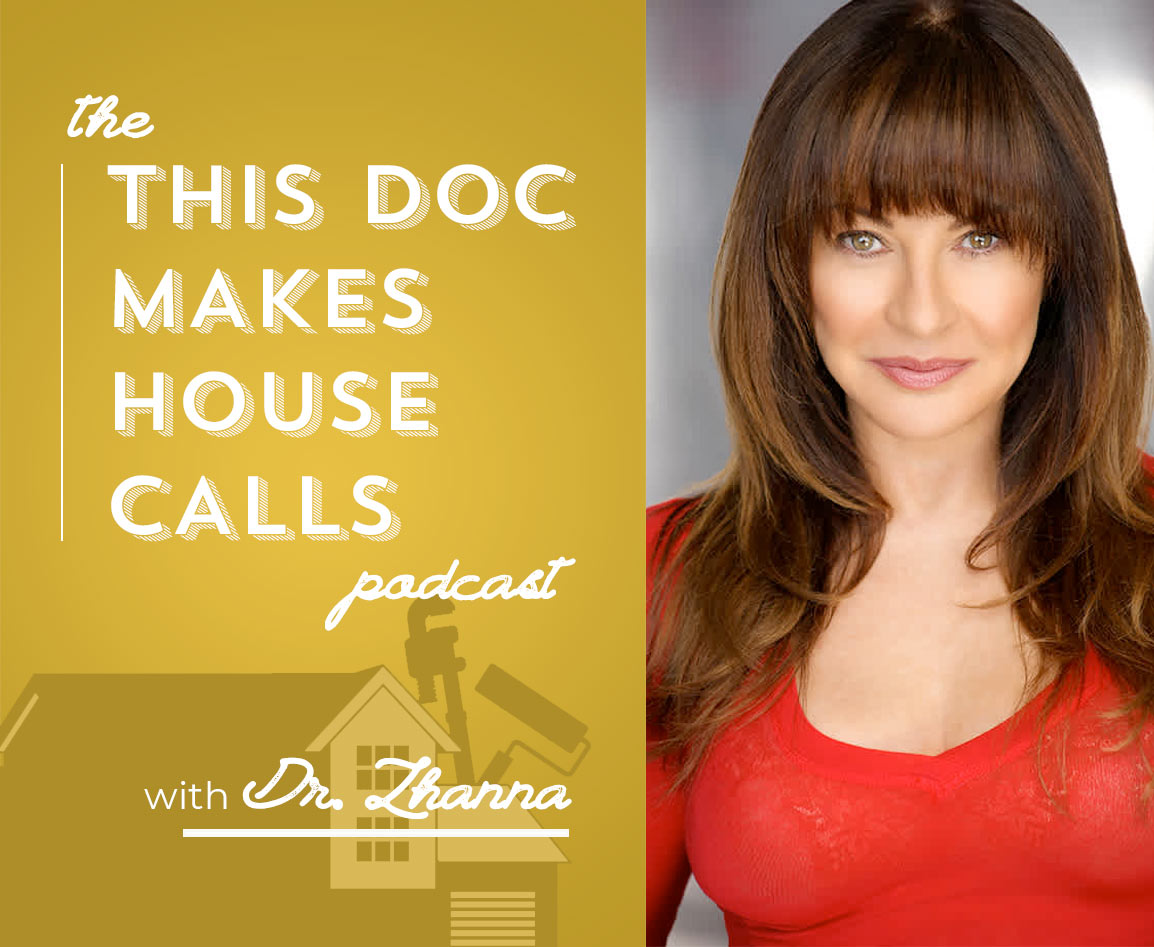
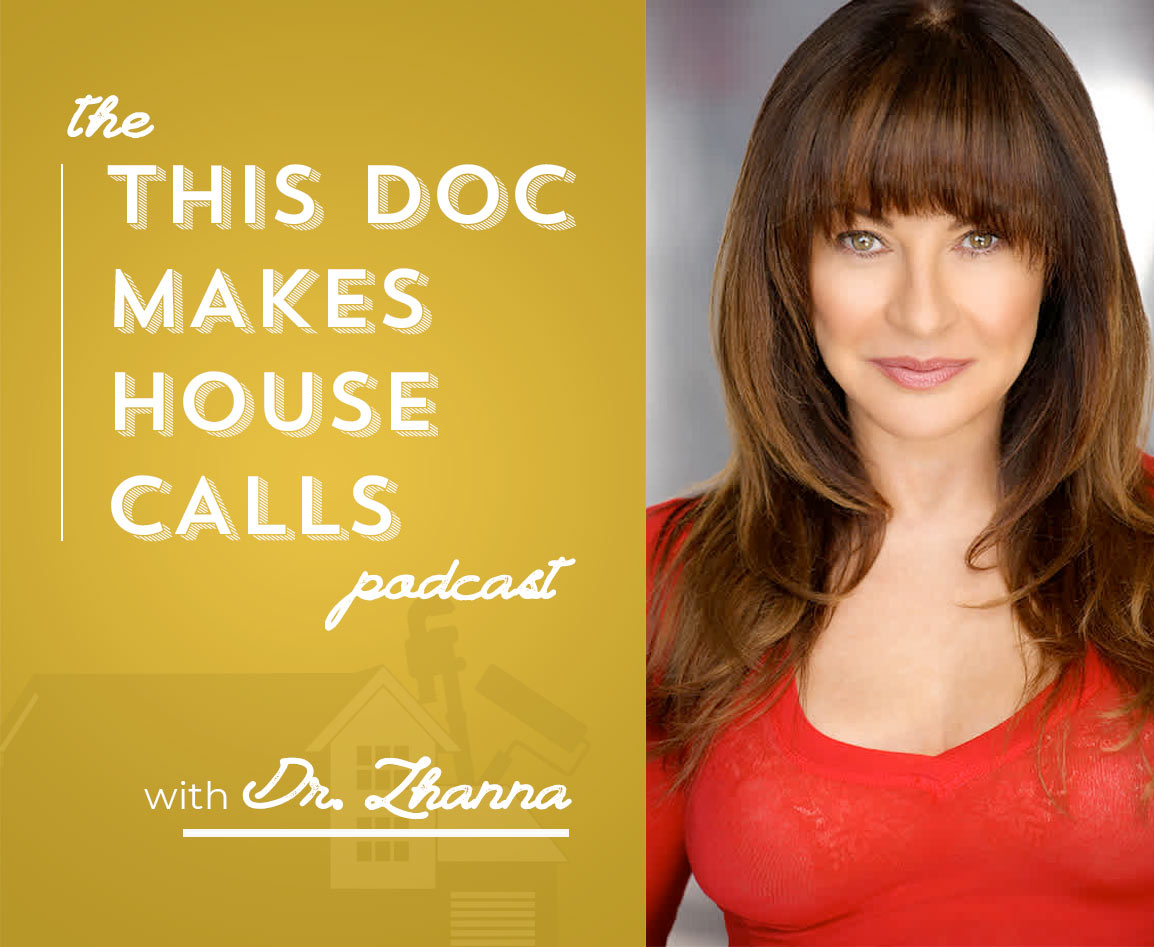
update photo styling

Changed region(s): [[0.0936, 0.6125, 0.4991, 1.0], [0.0, 0.7656, 0.0312, 0.7962]]

diff --git a/src/templates/ThisDocMakesHouseCalls/WatchTheShow/styles.js b/src/templates/ThisDocMakesHouseCalls/WatchTheShow/styles.js
@@ -43,7 +43,7 @@ const Copy = styled(Col)`
 
 const Image = styled(Col)`
     background-image: ${({ backgroundImage }) => `url(${backgroundImage})`};
-    height: 355px;
+    height: 295px;
     width: 100%;
     background-size: contain;
     background-repeat: no-repeat;
@@ -58,6 +58,10 @@ const Image = styled(Col)`
         bottom: -20px;
         right: -20px;
         z-index: -1;
+
+        @media (max-width: 768px) {
+            width: 50%;
+        }
     }
 
     &:hover {
@@ -65,8 +69,14 @@ const Image = styled(Col)`
     }
 
     @media (max-width: 768px) {
+        height: 320px;
         margin-top: 40px;
-        background-position: right !important;
+        background-position: center !important;
+    }
+
+    @media (max-width: 500px) {
+        height: 295px;
+        background-size: cover;
     }
 `
 

diff --git a/src/templates/ThisDocMakesHouseCalls/WatchTheShow/WatchTheShow.js b/src/templates/ThisDocMakesHouseCalls/WatchTheShow/WatchTheShow.js
@@ -36,7 +36,8 @@ experiences and we will share them on our future podcasts.</p>
                     </div>
                 </Copy>
                 <Image
-                    xs={14}
+                    xs={16}
+                    sm={12}
                     md={10}
                     xxl={6}
                     backgroundImage={watchTheShowImg}
